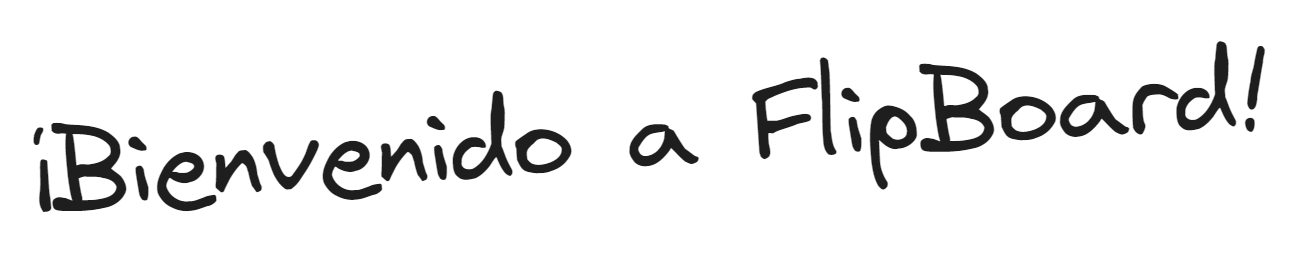
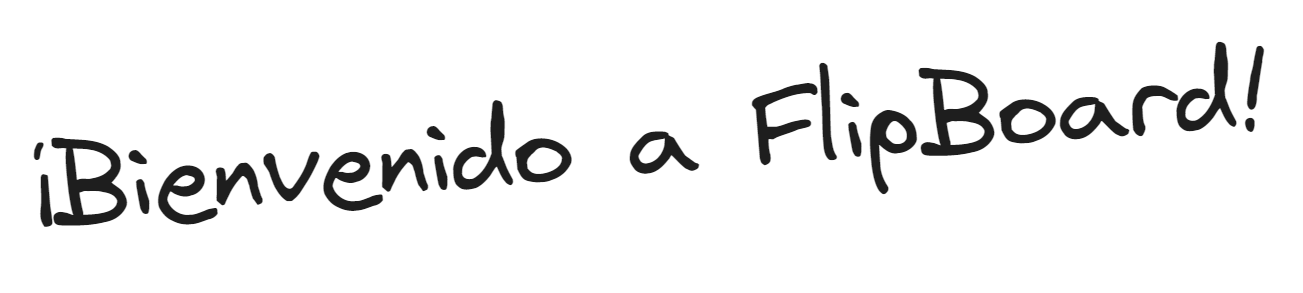
change home page image

diff --git a/Frontend/src/app/page.tsx b/Frontend/src/app/page.tsx
@@ -5,8 +5,8 @@ export default function Home() {
 
   return (
     <div className="flex h-[100dvh] md:h-screen items-center">
-      <aside className="hidden sm:flex justify-center flex-[2]">
-        <Image src="/bienvenido.png" alt="Bienvenido a FlipBoard" width={500} height={500} />
+      <aside className="hidden sm:flex justify-center flex-[2] h-full bg-white">
+        <Image src="/bienvenido.png" alt="Bienvenido a FlipBoard" width={500} height={500} className="object-contain"/>
       </aside>
       <main className="flex-[1] px-8 md:px-10 flex justify-center lg:items-center overflow-y-auto overflow-x-hidden h-full">
         <Login />

diff --git a/Frontend/src/app/componentes/Login.tsx b/Frontend/src/app/componentes/Login.tsx
@@ -11,7 +11,7 @@ export default function Login() {
   const [registro, setRegistro] = useState(false)
 
   return (
-    <section className="flex flex-col items-center gap-3 p-8 border-2 shadow-md dark:shadow-slate-400 dark:border-slate-400 rounded h-fit my-5">
+    <section className="flex flex-col items-center gap-3 p-8 border-2 shadow-md dark:shadow-slate-400 rounded h-fit my-5">
       <Image src="/flipboard-icon.png" alt="FlipBoard" width={100} height={100} />
       <h1 className="text-xl">¡Bienvenido!</h1>
       <p className=" text-base text-center">{registro ? "Regístrate" : "Inicia sesión"} para continuar en la plataforma</p>
